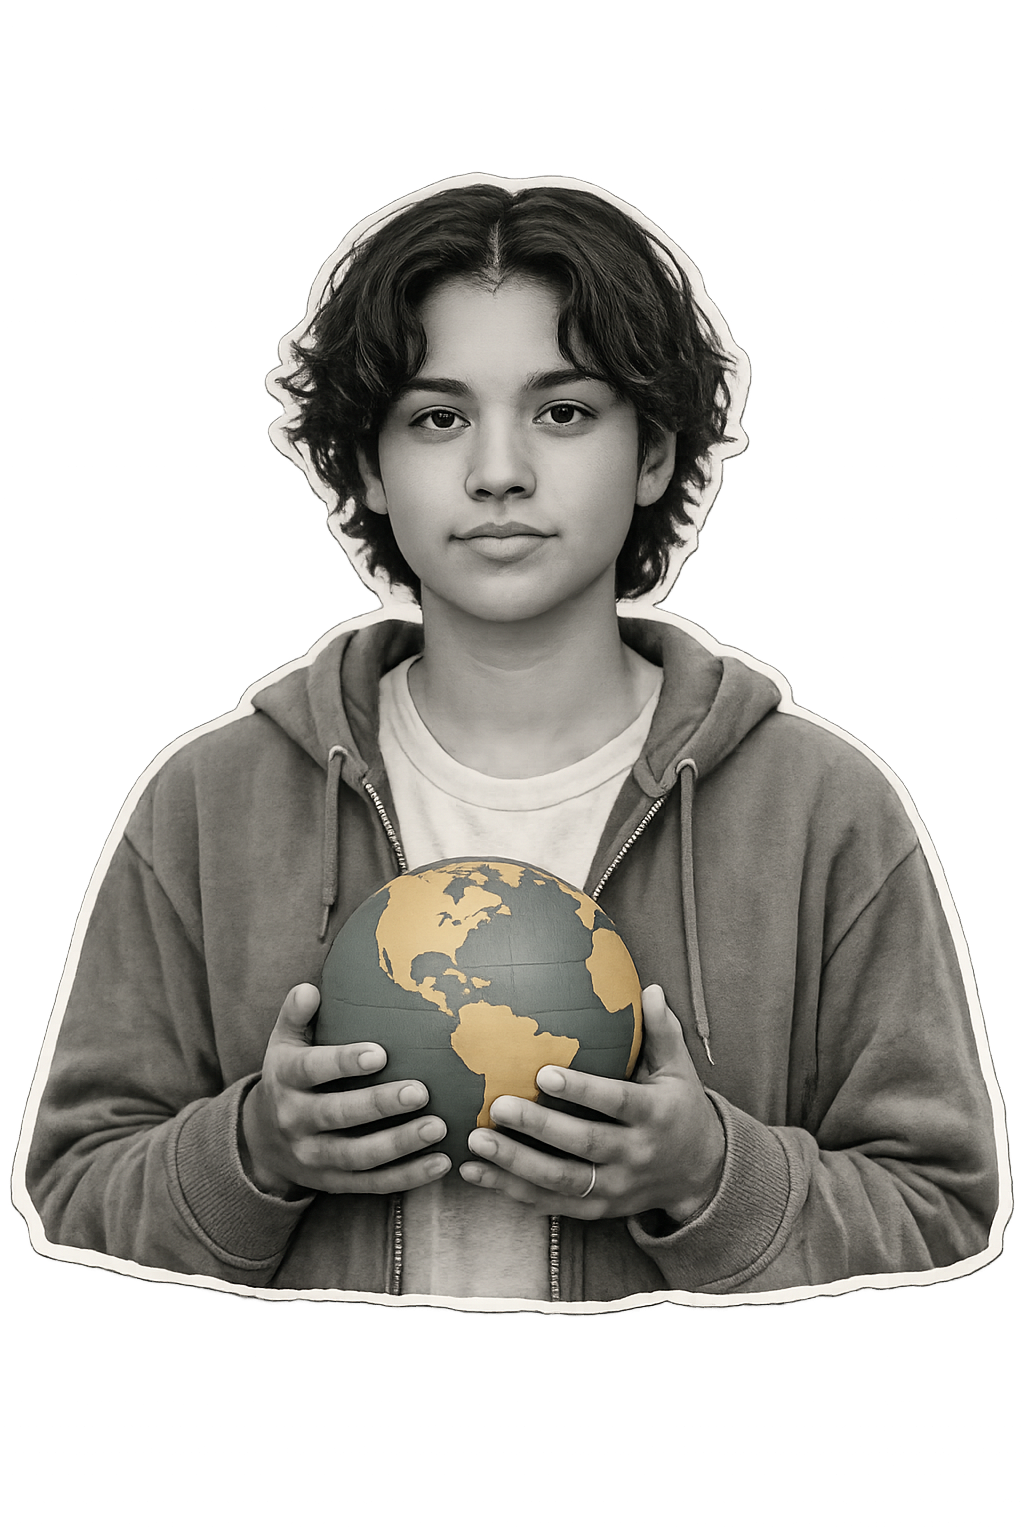
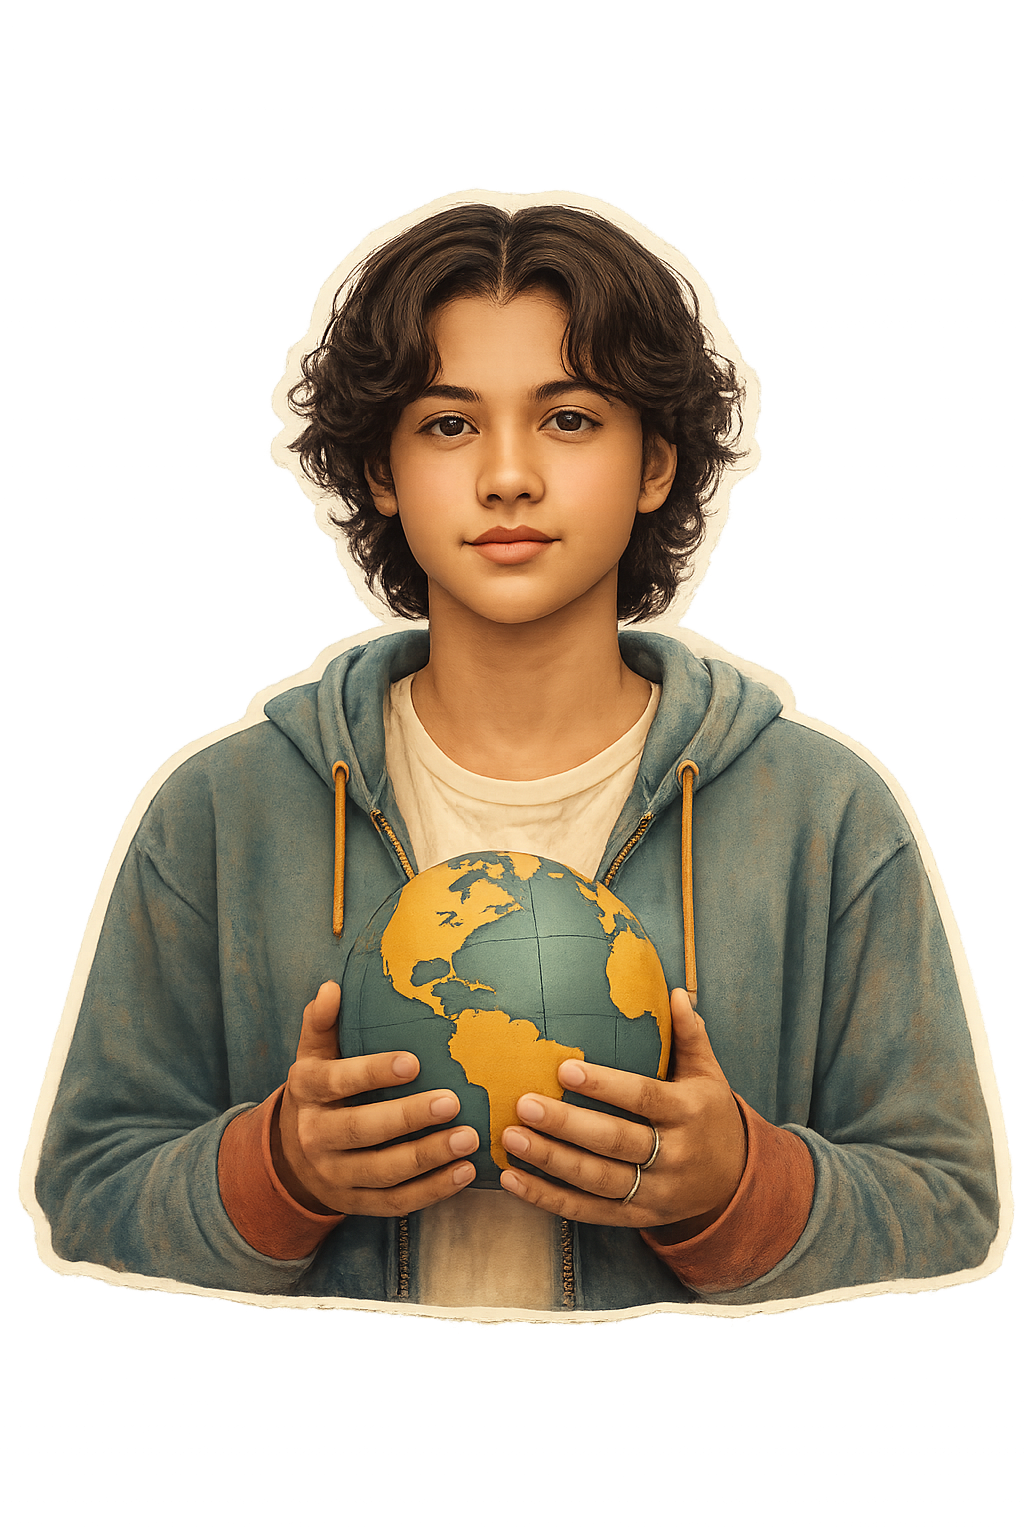
style: refine editorial image palette

diff --git a/src/index.html b/src/index.html
@@ -747,7 +747,7 @@
       <figure class="cutout cutout--interactive" data-accent="coral"
         style="position:absolute;top:28%;right:2%;width:48%;z-index:4;--cutout-dx:1.8cqi;--cutout-dy:2cqi;">
         <img class="cutout__img" src="assets/img/hero/portada.png?v=2" alt="Seis manos de diferentes tonos de piel sosteniendo un globo terráqueo de papel maché">
-        <div class="cutout__silhouette" style="--cutout-src:url('assets/img/hero/portada.png?v=2');"></div>
+        <div class="cutout__silhouette" style="--cutout-src:url('../assets/img/hero/portada.png?v=2');"></div>
       </figure>
 
       <!-- Tarjeta inferior izquierda: Público objetivo -->
@@ -779,7 +779,7 @@
 
       <p class="cover__author torn torn--c">
         <span class="cover__author-label">Autora</span>
-        <span class="cover__author-name">Liliana Ruiz Álvarez</span>
+        <span class="cover__author-name">Liliana Álvarez-Ruiz</span>
       </p>
 
       <span class="page__folio">01</span>
@@ -809,7 +809,7 @@
       <figure class="cutout cutout--interactive enter" data-accent="mustard"
         style="width:55%;margin:var(--space-xl) auto 0;--cutout-dx:1.2cqi;--cutout-dy:1.4cqi;--enter-i:3;">
         <img class="cutout__img" src="assets/img/hero/dedicatoria.png" alt="Manos escribiendo en un cuaderno abierto sobre una mesa de madera">
-        <div class="cutout__silhouette" style="--cutout-src:url('assets/img/hero/dedicatoria.png');"></div>
+        <div class="cutout__silhouette" style="--cutout-src:url('../assets/img/hero/dedicatoria.png');"></div>
       </figure>
 
       <span class="page__folio">02</span>
@@ -887,8 +887,8 @@
       <!-- Imagen: estudiantes con mapa -->
       <figure class="cutout cutout--interactive enter presentation__hero" data-accent="teal"
         style="position:absolute;top:12%;right:2%;width:42%;z-index:4;--cutout-dx:1.6cqi;--cutout-dy:1.8cqi;--enter-i:5;">
-        <img class="cutout__img" src="assets/img/hero/presentacion.png" alt="Cuatro estudiantes diversos alrededor de un mapa mundi extendido en el suelo">
-        <div class="cutout__silhouette" style="--cutout-src:url('assets/img/hero/presentacion.png');"></div>
+        <img class="cutout__img" src="assets/img/hero/presentacion.png?v=2" alt="Cuatro estudiantes diversos alrededor de un mapa mundi extendido en el suelo">
+        <div class="cutout__silhouette" style="--cutout-src:url('../assets/img/hero/presentacion.png?v=2');"></div>
       </figure>
 
       <!-- Banner pregunta -->
@@ -953,7 +953,7 @@
       <figure class="cutout cutout--interactive enter" data-accent="mustard"
         style="position:absolute;bottom:8%;right:3%;width:30%;z-index:4;--cutout-dx:1.2cqi;--cutout-dy:1cqi;--enter-i:4;">
         <img class="cutout__img" src="assets/img/hero/como-usar.png" alt="Manos organizando un escritorio de estudio con cuaderno, marcadores y notas adhesivas">
-        <div class="cutout__silhouette" style="--cutout-src:url('assets/img/hero/como-usar.png');"></div>
+        <div class="cutout__silhouette" style="--cutout-src:url('../assets/img/hero/como-usar.png');"></div>
       </figure>
 
       <!-- Iconos de tipos de contenido -->
@@ -1001,8 +1001,8 @@
       <!-- Imagen hero a pantalla completa -->
       <figure class="cutout cutout--interactive enter" data-accent="teal"
         style="width:60%;margin:0 auto;--cutout-dx:2cqi;--cutout-dy:2.2cqi;--enter-i:0;">
-        <img class="cutout__img" src="assets/img/hero/apertura-intro.png" alt="Joven con mochila de espaldas mirando un panel de salidas en un aeropuerto internacional">
-        <div class="cutout__silhouette" style="--cutout-src:url('assets/img/hero/apertura-intro.png');"></div>
+        <img class="cutout__img" src="assets/img/hero/apertura-intro.png?v=2" alt="Joven con mochila de espaldas mirando un panel de salidas en un aeropuerto internacional">
+        <div class="cutout__silhouette" style="--cutout-src:url('../assets/img/hero/apertura-intro.png?v=2');"></div>
       </figure>
 
       <div class="enter text-center mt-xl" style="--enter-i:1;">
@@ -1049,7 +1049,7 @@
       <figure class="cutout cutout--interactive enter" data-accent="coral"
         style="position:absolute;bottom:10%;right:2%;width:40%;z-index:4;--cutout-dx:1.4cqi;--cutout-dy:1.6cqi;--enter-i:5;">
         <img class="cutout__img" src="assets/img/hero/conectados.png" alt="Multitud diversa de personas cruzando una intersección urbana">
-        <div class="cutout__silhouette" style="--cutout-src:url('assets/img/hero/conectados.png');"></div>
+        <div class="cutout__silhouette" style="--cutout-src:url('../assets/img/hero/conectados.png');"></div>
       </figure>
 
       <!-- Hotspot -->
@@ -1083,8 +1083,8 @@
       <!-- Imagen: joven reflexivo junto a ventana -->
       <figure class="cutout cutout--interactive enter" data-accent="teal"
         style="position:absolute;top:15%;right:3%;width:38%;z-index:4;--cutout-dx:1.6cqi;--cutout-dy:1.8cqi;--enter-i:3;">
-        <img class="cutout__img" src="assets/img/hero/quien-soy.png" alt="Joven adulto pensativo junto a una ventana con su reflejo visible en el cristal">
-        <div class="cutout__silhouette" style="--cutout-src:url('assets/img/hero/quien-soy.png');"></div>
+        <img class="cutout__img" src="assets/img/hero/quien-soy.png?v=2" alt="Joven adulto pensativo junto a una ventana con su reflejo visible en el cristal">
+        <div class="cutout__silhouette" style="--cutout-src:url('../assets/img/hero/quien-soy.png?v=2');"></div>
       </figure>
 
       <!-- Preguntas para reflexionar -->
@@ -1111,7 +1111,7 @@
       <figure class="cutout cutout--interactive enter" data-accent="coral"
         style="width:65%;margin:0 auto;--cutout-dx:1.8cqi;--cutout-dy:2cqi;--enter-i:0;">
         <img class="cutout__img" src="assets/img/hero/primer-paso.png" alt="Primer plano de zapatillas dando un paso sobre un camino de piedra, con un mapa plegado en la mano">
-        <div class="cutout__silhouette" style="--cutout-src:url('assets/img/hero/primer-paso.png');"></div>
+        <div class="cutout__silhouette" style="--cutout-src:url('../assets/img/hero/primer-paso.png');"></div>
       </figure>
 
       <div class="enter text-center mt-xl" style="--enter-i:1;">
@@ -1142,8 +1142,8 @@
 
       <figure class="cutout cutout--interactive enter" data-accent="coral"
         style="width:50%;margin:var(--space-lg) auto 0;--cutout-dx:1.8cqi;--cutout-dy:2cqi;--enter-i:2;">
-        <img class="cutout__img" src="assets/img/hero/cap1.png" alt="Joven de herencia mixta sosteniendo un pequeño globo terráqueo a la altura del pecho, mirando directamente a cámara">
-        <div class="cutout__silhouette" style="--cutout-src:url('assets/img/hero/cap1.png');"></div>
+        <img class="cutout__img" src="assets/img/hero/cap1.png?v=2" alt="Joven de herencia mixta sosteniendo un pequeño globo terráqueo a la altura del pecho, mirando directamente a cámara">
+        <div class="cutout__silhouette" style="--cutout-src:url('../assets/img/hero/cap1.png?v=2');"></div>
       </figure>
 
       <p class="t-lead enter mt-lg text-center t-measure" style="--enter-i:3;max-width:32ch;margin-left:auto;margin-right:auto;">
@@ -1203,8 +1203,8 @@
       <!-- Imagen: joven ante muro de fotos -->
       <figure class="cutout cutout--interactive enter" data-accent="teal"
         style="position:absolute;top:10%;right:2%;width:38%;z-index:4;--cutout-dx:1.4cqi;--cutout-dy:1.6cqi;--enter-i:5;">
-        <img class="cutout__img" src="assets/img/hero/identidad.png" alt="Joven mujer frente a un muro cubierto de fotografías y notas con hilos conectándolas">
-        <div class="cutout__silhouette" style="--cutout-src:url('assets/img/hero/identidad.png');"></div>
+        <img class="cutout__img" src="assets/img/hero/identidad.png?v=2" alt="Joven mujer frente a un muro cubierto de fotografías y notas con hilos conectándolas">
+        <div class="cutout__silhouette" style="--cutout-src:url('../assets/img/hero/identidad.png?v=2');"></div>
       </figure>
 
       <button class="hotspot hotspot--teal hotspot--label-left enter" data-dialog="identidad-capas" style="top:38%;right:7%;--enter-i:6;" aria-label="Explorar las capas de la identidad">
@@ -1279,7 +1279,7 @@
       <figure class="cutout cutout--interactive enter" data-accent="mustard"
         style="width:40%;margin:var(--space-lg) auto;--cutout-dx:1.2cqi;--cutout-dy:1.4cqi;--enter-i:1;">
         <img class="cutout__img" src="assets/img/hero/reflexiona.png" alt="Cuaderno abierto con páginas en blanco sobre un escritorio de madera, con un bolígrafo y una mano en reposo">
-        <div class="cutout__silhouette" style="--cutout-src:url('assets/img/hero/reflexiona.png');"></div>
+        <div class="cutout__silhouette" style="--cutout-src:url('../assets/img/hero/reflexiona.png');"></div>
       </figure>
 
       <div class="card card--kraft enter mt-md paper-ruled" style="--enter-i:2;max-width:80%;--card-rot:-0.4deg;--rule-gap:3.6cqi;">
@@ -1326,7 +1326,7 @@
       <figure class="cutout cutout--interactive enter" data-accent="teal"
         style="position:absolute;top:12%;right:2%;width:36%;z-index:4;--cutout-dx:1.4cqi;--cutout-dy:1.6cqi;--enter-i:5;">
         <img class="cutout__img" src="assets/img/hero/cultura.png" alt="Un par de gafas ordinarias sobre una página de atlas abierto, con los lentes mostrando el mapa con mayor nitidez">
-        <div class="cutout__silhouette" style="--cutout-src:url('assets/img/hero/cultura.png');"></div>
+        <div class="cutout__silhouette" style="--cutout-src:url('../assets/img/hero/cultura.png');"></div>
       </figure>
 
       <button class="hotspot hotspot--mustard hotspot--label-left enter" data-dialog="gafas-culturales" style="top:35%;right:7%;--enter-i:6;" aria-label="Abrir reto sobre las gafas culturales">
@@ -1389,7 +1389,7 @@
       <figure class="cutout cutout--interactive enter" data-accent="coral"
         style="position:absolute;bottom:8%;right:2%;width:42%;z-index:4;--cutout-dx:1.6cqi;--cutout-dy:1.8cqi;--enter-i:3;">
         <img class="cutout__img" src="assets/img/hero/perspectivas.png" alt="Dos jóvenes de diferentes orígenes culturales sentados frente a frente en una mesa de café, en conversación animada">
-        <div class="cutout__silhouette" style="--cutout-src:url('assets/img/hero/perspectivas.png');"></div>
+        <div class="cutout__silhouette" style="--cutout-src:url('../assets/img/hero/perspectivas.png');"></div>
       </figure>
 
       <!-- Escala de Bennett -->
@@ -1445,7 +1445,7 @@
       <figure class="cutout cutout--interactive enter" data-accent="teal"
         style="position:absolute;top:10%;right:2%;width:42%;z-index:4;--cutout-dx:1.6cqi;--cutout-dy:1.8cqi;--enter-i:5;">
         <img class="cutout__img" src="assets/img/hero/diversidad.png" alt="Cinco jóvenes diversos, incluyendo una persona en silla de ruedas, colaborando alrededor de una mesa con bocetos y notas">
-        <div class="cutout__silhouette" style="--cutout-src:url('assets/img/hero/diversidad.png');"></div>
+        <div class="cutout__silhouette" style="--cutout-src:url('../assets/img/hero/diversidad.png');"></div>
       </figure>
 
       <!-- Checklist: formas de diversidad -->
@@ -1495,8 +1495,8 @@
       <!-- Imagen: aula universitaria diversa -->
       <figure class="cutout cutout--interactive enter" data-accent="mustard"
         style="position:absolute;bottom:6%;right:2%;width:44%;z-index:4;--cutout-dx:1.6cqi;--cutout-dy:1.8cqi;--enter-i:3;">
-        <img class="cutout__img" src="assets/img/hero/aula.png" alt="Grupo diverso de estudiantes universitarios en un aula luminosa, algunos tomando notas, uno levantando la mano">
-        <div class="cutout__silhouette" style="--cutout-src:url('assets/img/hero/aula.png');"></div>
+        <img class="cutout__img" src="assets/img/hero/aula.png?v=2" alt="Grupo diverso de estudiantes universitarios en un aula luminosa, algunos tomando notas, uno levantando la mano">
+        <div class="cutout__silhouette" style="--cutout-src:url('../assets/img/hero/aula.png?v=2');"></div>
       </figure>
 
       <!-- Tarjetas de buenas prácticas -->
@@ -1547,7 +1547,7 @@
       <figure class="cutout cutout--interactive enter" data-accent="teal"
         style="position:absolute;top:10%;right:3%;width:34%;z-index:4;--cutout-dx:1.4cqi;--cutout-dy:1.6cqi;--enter-i:4;">
         <img class="cutout__img" src="assets/img/hero/autoconocimiento.png" alt="Joven sentado en un alféizar con las rodillas recogidas, sosteniendo un cuaderno cerrado contra el pecho, mirando hacia la ventana">
-        <div class="cutout__silhouette" style="--cutout-src:url('assets/img/hero/autoconocimiento.png');"></div>
+        <div class="cutout__silhouette" style="--cutout-src:url('../assets/img/hero/autoconocimiento.png');"></div>
       </figure>
 
       <!-- Pestañas: herramientas de autoconocimiento -->
@@ -1583,7 +1583,7 @@
       <figure class="cutout cutout--interactive enter" data-accent="mustard"
         style="width:50%;margin:0 auto;--cutout-dx:1.6cqi;--cutout-dy:1.8cqi;--enter-i:0;">
         <img class="cutout__img" src="assets/img/hero/raices.png" alt="Base de un árbol antiguo con raíces visibles sobre la tierra, con la mano de un joven apoyada sobre la corteza">
-        <div class="cutout__silhouette" style="--cutout-src:url('assets/img/hero/raices.png');"></div>
+        <div class="cutout__silhouette" style="--cutout-src:url('../assets/img/hero/raices.png');"></div>
       </figure>
 
       <div class="enter text-center mt-xl" style="--enter-i:1;">
@@ -1620,7 +1620,7 @@
       <figure class="cutout cutout--interactive enter" data-accent="coral"
         style="position:absolute;top:8%;right:2%;width:36%;z-index:4;--cutout-dx:1.4cqi;--cutout-dy:1.6cqi;--enter-i:3;">
         <img class="cutout__img" src="assets/img/hero/laboratorio.png" alt="Vista cenital de un taller con varias manos trabajando simultáneamente: cortando papel, dibujando, organizando tarjetas">
-        <div class="cutout__silhouette" style="--cutout-src:url('assets/img/hero/laboratorio.png');"></div>
+        <div class="cutout__silhouette" style="--cutout-src:url('../assets/img/hero/laboratorio.png');"></div>
       </figure>
 
       <!-- Tarjetas de actividades -->
@@ -1687,7 +1687,7 @@
       <figure class="cutout cutout--interactive enter" data-accent="teal"
         style="position:absolute;bottom:6%;right:3%;width:32%;z-index:4;--cutout-dx:1.2cqi;--cutout-dy:1.4cqi;--enter-i:5;">
         <img class="cutout__img" src="assets/img/hero/act-mapa.png" alt="Mano dibujando un mapa mental radial con marcador sobre una hoja en blanco, con lápices de colores alrededor">
-        <div class="cutout__silhouette" style="--cutout-src:url('assets/img/hero/act-mapa.png');"></div>
+        <div class="cutout__silhouette" style="--cutout-src:url('../assets/img/hero/act-mapa.png');"></div>
       </figure>
 
       <span class="page__folio">21</span>
@@ -1714,7 +1714,7 @@
       <figure class="cutout cutout--interactive enter" data-accent="mustard"
         style="position:absolute;top:12%;right:2%;width:36%;z-index:4;--cutout-dx:1.4cqi;--cutout-dy:1.6cqi;--enter-i:3;">
         <img class="cutout__img" src="assets/img/hero/act-arbol.png" alt="Dibujo de un árbol en tinta negra sobre papel crema: raíces, tronco, ramas, hojas y frutos, con un bolígrafo en la esquina">
-        <div class="cutout__silhouette" style="--cutout-src:url('assets/img/hero/act-arbol.png');"></div>
+        <div class="cutout__silhouette" style="--cutout-src:url('../assets/img/hero/act-arbol.png');"></div>
       </figure>
 
       <div class="card card--kraft enter mt-lg paper-ruled" style="--enter-i:4;--card-rot:0.3deg;--rule-gap:3.6cqi;max-width:70%;">
@@ -1751,7 +1751,7 @@
       <figure class="cutout cutout--interactive enter" data-accent="coral"
         style="position:absolute;top:10%;right:2%;width:40%;z-index:4;--cutout-dx:1.4cqi;--cutout-dy:1.6cqi;--enter-i:3;">
         <img class="cutout__img" src="assets/img/hero/act-historia.png" alt="Tira horizontal de pequeñas fotografías colgadas de una cuerda con pinzas de madera, como una línea de tiempo personal">
-        <div class="cutout__silhouette" style="--cutout-src:url('assets/img/hero/act-historia.png');"></div>
+        <div class="cutout__silhouette" style="--cutout-src:url('../assets/img/hero/act-historia.png');"></div>
       </figure>
 
       <div class="card enter mt-lg" style="--enter-i:4;--card-rot:-0.3deg;">
@@ -1793,7 +1793,7 @@
       <figure class="cutout cutout--interactive enter" data-accent="teal"
         style="position:absolute;top:10%;right:3%;width:34%;z-index:4;--cutout-dx:1.4cqi;--cutout-dy:1.6cqi;--enter-i:4;">
         <img class="cutout__img" src="assets/img/hero/espejo.png" alt="Joven de pie frente a un espejo rectangular simple, visto desde atrás y de lado, con su reflejo visible">
-        <div class="cutout__silhouette" style="--cutout-src:url('assets/img/hero/espejo.png');"></div>
+        <div class="cutout__silhouette" style="--cutout-src:url('../assets/img/hero/espejo.png');"></div>
       </figure>
 
       <!-- Pregunta destacada -->
@@ -1821,7 +1821,7 @@
       <figure class="cutout cutout--interactive enter" data-accent="coral"
         style="width:35%;margin:var(--space-lg) auto;--cutout-dx:1.2cqi;--cutout-dy:1.4cqi;--enter-i:1;">
         <img class="cutout__img" src="assets/img/hero/carta.png" alt="Hoja de papel doblada en tres siendo introducida en un sobre abierto sobre una mesa, con una pluma estilográfica al lado">
-        <div class="cutout__silhouette" style="--cutout-src:url('assets/img/hero/carta.png');"></div>
+        <div class="cutout__silhouette" style="--cutout-src:url('../assets/img/hero/carta.png');"></div>
       </figure>
 
       <div class="card card--coral enter mt-md" style="--enter-i:2;max-width:75%;--card-rot:-0.6deg;">
@@ -1924,7 +1924,7 @@
       <figure class="cutout cutout--interactive enter" data-accent="teal"
         style="width:60%;margin:var(--space-lg) auto 0;--cutout-dx:1.8cqi;--cutout-dy:2cqi;--enter-i:2;">
         <img class="cutout__img" src="assets/img/hero/cierre.png" alt="Muchas manos de diferentes tonos de piel convergiendo desde todos los bordes hacia el centro sobre un mapa mundi, con hilos de colores conectando las yemas de los dedos">
-        <div class="cutout__silhouette" style="--cutout-src:url('assets/img/hero/cierre.png');"></div>
+        <div class="cutout__silhouette" style="--cutout-src:url('../assets/img/hero/cierre.png');"></div>
       </figure>
 
       <blockquote class="t-quote enter mt-xl text-center" style="--enter-i:3;max-width:38ch;margin-left:auto;margin-right:auto;padding-left:0;">

diff --git a/src/css/03-paper.css b/src/css/03-paper.css
@@ -101,7 +101,8 @@
    Aquí se añaden dos cosas que NO conviene pedirle al modelo:
      a) la silueta desplazada de papel de color (2.ª capa del collage);
      b) el ajuste de tono unificado, para que las 23 fotografías se lean como
-        una sola colección impresa.
+         una sola colección impresa, sin eliminar el color de las imágenes ya
+         colorizadas.
 ----------------------------------------------------------------------------- */
 .cutout {
   position: relative;
@@ -115,8 +116,8 @@
   display: block;
   width: 100%;
   height: auto;
-  /* Unifica el tono documental cálido de toda la colección. */
-  filter: grayscale(0.82) sepia(0.16) contrast(1.04) brightness(1.02)
+  /* Mantiene el acabado documental sin desaturar las imágenes colorizadas. */
+  filter: contrast(1.04) brightness(1.02)
     drop-shadow(0 0.3cqi 0.7cqi rgba(48, 38, 24, 0.24));
 }
 
